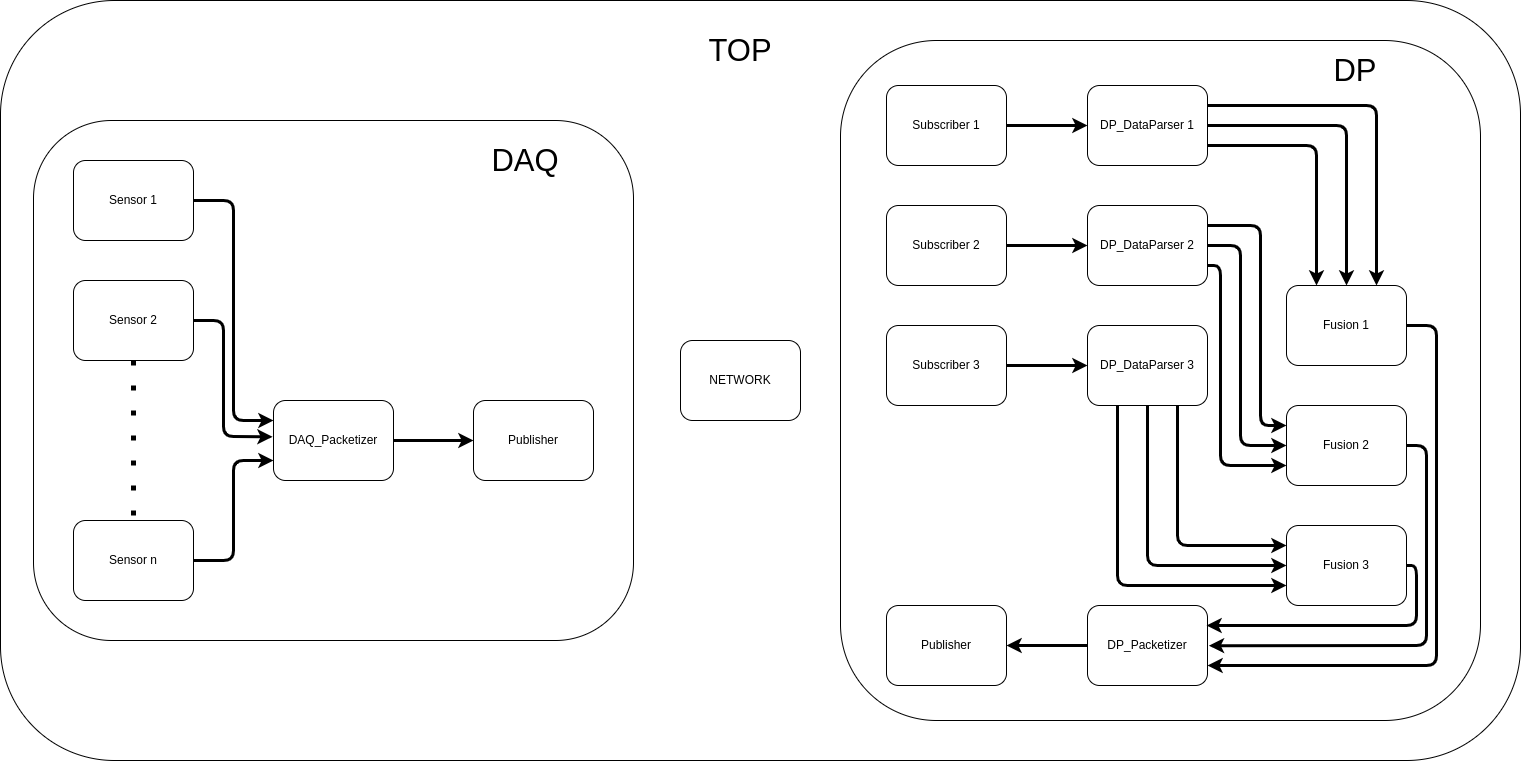
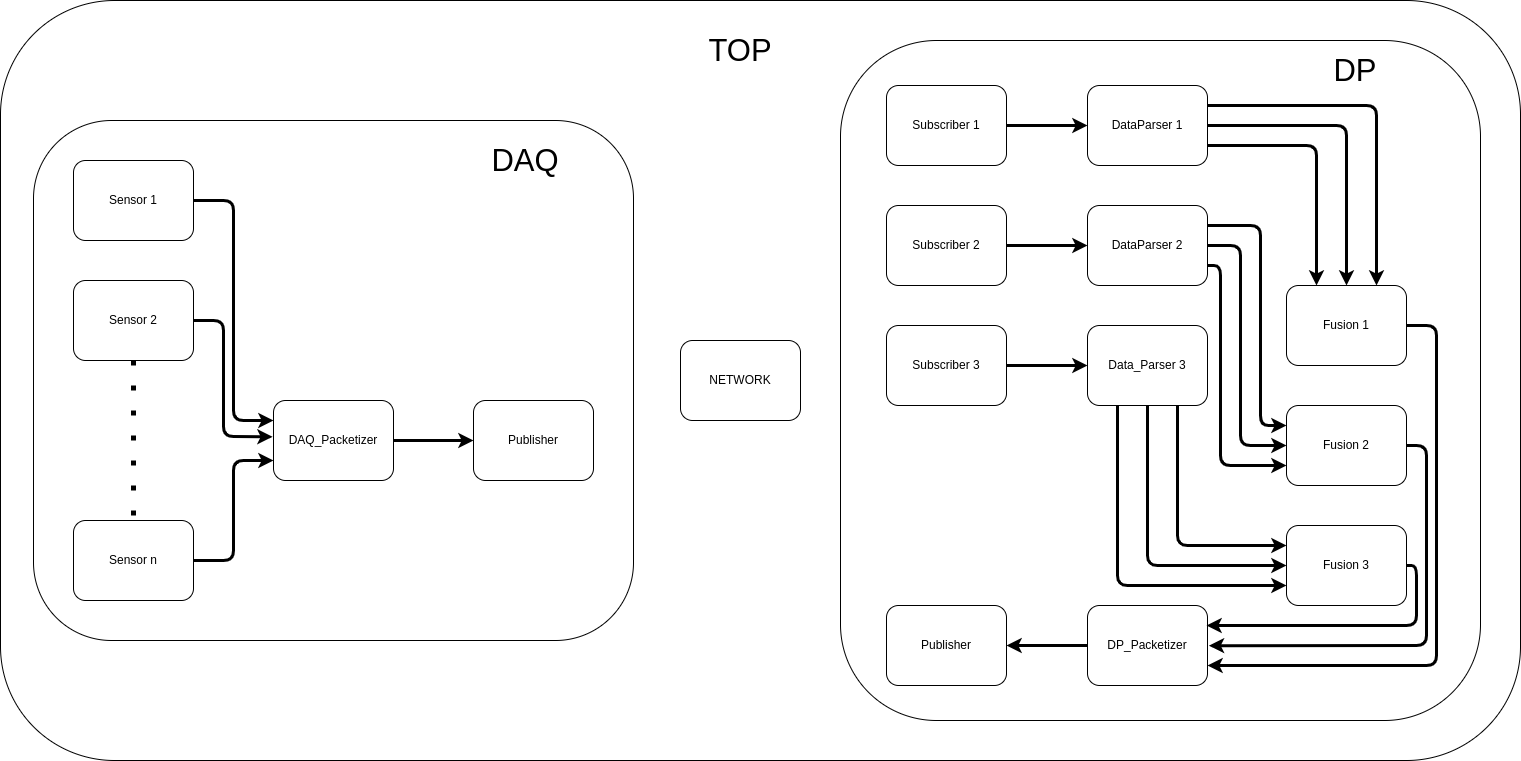
Readme Formal Spec

diff --git a/README.md b/README.md
@@ -19,10 +19,160 @@ cd DAQ_DP_Networking/top_model/
 make all
 ```
 
-This will run the standard Cadmium simulator. Cadmium logs will be generated in DAQ_DP_Networking/top_model/MessageOutputs.txt
-The outputs of the Publishers are stored in DAQ_DP_Networking/top_model/outputs.
-The pin's inputs are stored in DAQ_DP_Networking/top_model/inputs.
+This will run the standard Cadmium simulator.
+
+Cadmium logs will be generated in `DAQ_DP_Networking/top_model/MessageOutputs.txt`
+
+The outputs of the Publishers are stored in `DAQ_DP_Networking/top_model/outputs`
+
+The Sensor inputs are stored in `DAQ_DP_Networking/top_model/inputs`
 
 ## Block Diagram
 
 ![block_diagram](Docs/BlockDiagram.png)
+
+- Coupled Models :- 
+  - DAQ
+    - Sensor 1 - Sensor n
+    - DAQ_Packetizer
+    - Publisher
+  - DP
+    - Subscriber 1, Subscriber 2, Subscriber 3
+    - Data_Parser 1, Data_Parser 2, Data_Parser 3
+    - Fusion 1, Fusion 2, Fusion 3
+    - DP_Packetizer
+    - Publisher
+  - TOP
+    - DAQ
+    - DP
+    - NETWORK
+
+## Formal Specification
+#### DAQ
+- Sensor Atomics
+```
+S = {}
+X = {}
+Y = {SensorData}
+δint { //do nothing}
+δext { //do nothing}
+λ {
+    SensorRead = readsensor()
+    Send SensorRead to port SensorData.
+}
+ta = pollingRate
+```
+- DAQ_Packetizer
+```
+S = {active, passive}
+X = {Sensor1in, Sensor2in..., SensorNin}
+Y = {JSONDataOut}
+δint () = {}
+δext () {
+    sprintf(Buffer, “{\”Temp\”:[%d, %d...], ”Hum\”:[%d, %d...], ”CO\”:[%d, %d...]}”, Sensor1in, ...);
+    state = active
+}
+λ (active) {
+    if Buffer is valid:
+    send Buffer to the output port JSONDataOut
+}
+ta(passive) = infinity
+ta(active) = ProcessingTime
+```
+
+- Publisher
+```
+S = {active, passive}
+X = {DataIn}
+Y = {}
+δint (active) = passive
+δext (CSVDataIn, passive) {
+    client.publish(“<UID>/Raw/ALL”, (const char*) DataIn);
+    state = active
+}
+δext () = active
+λ (active) {}
+ta(passive) = infinity
+ta(active) = ProcessingTime
+```
+
+#### Data Processor
+- Subscriber Atomics
+```
+S = {}
+X = {}
+Y = {Message}
+δint () = {}
+δext () = {}
+λ {
+    Recieve(A, B) //topic is discarded
+    Message = B
+}
+ta() = pollingTime
+```
+- Data_Parser Atomics
+```
+S = {active, passive, values[3]}
+X = {in}
+Y = {out1, out2, out3}
+δint (active) = passive
+δext ((Topic, Message), passive){
+    Parse string input from <in>
+    store the parsed and converted calues in <values[]>
+    state = active
+}
+
+λ (active, State){
+    send <values[]> to the out ports iteratively (3 values go to 3 the 3 respective ports)
+}
+
+ta(passive) = infinity
+ta(active) = Processing time
+```
+- Fusion Atomics
+```
+S = {active, passive, fused}
+X = {in1, in2, in3}
+Y = {out}
+δint () = {}
+δext (in, passive) { 
+    fused = ALGORITHM(in1, in2, in3)
+    state = active
+}
+λ (active) {
+	out = fused
+}
+ta(passive) = infinity
+ta(active) = ProcessingTime
+```
+
+- DP_Packetizer
+```
+S = {active, passive, buffer}
+X = {T, H, C}
+Y = {JSONDataOut}
+δint () = {}
+δext () {
+    sprintf(buffer, “{\”Temp\”:%d, ”Hum\”:%d, ”CO\”:%d}”, T, H, C)
+    state = active
+}
+λ (active) {
+    if Buffer is valid:
+    send Buffer to the output port JSONDataOut
+}
+ta(passive) = infinity
+ta(active) = ProcessingTime
+```
+- Publisher
+```
+S = {}
+X = {DataIn}
+Y = {}
+δint () = {}
+δext (CSVDataIn, passive) {
+    client.publish(“<UID>/fused”, (const char*) DataIn);
+}
+λ (active) {}
+ta(passive) = infinity
+ta(active) = ProcessingTime
+```
